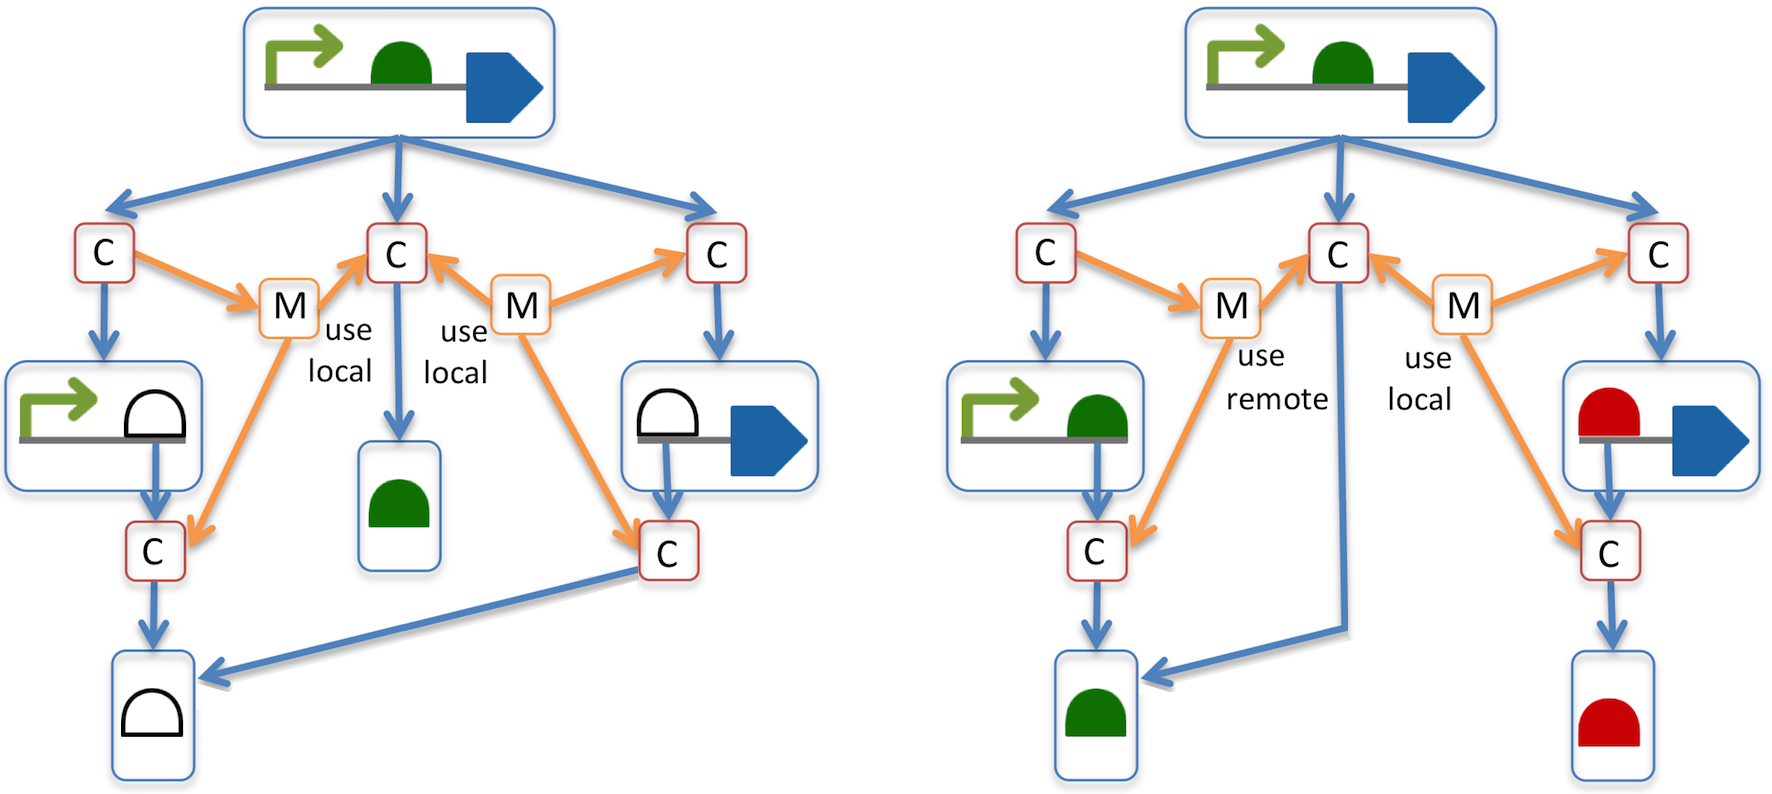
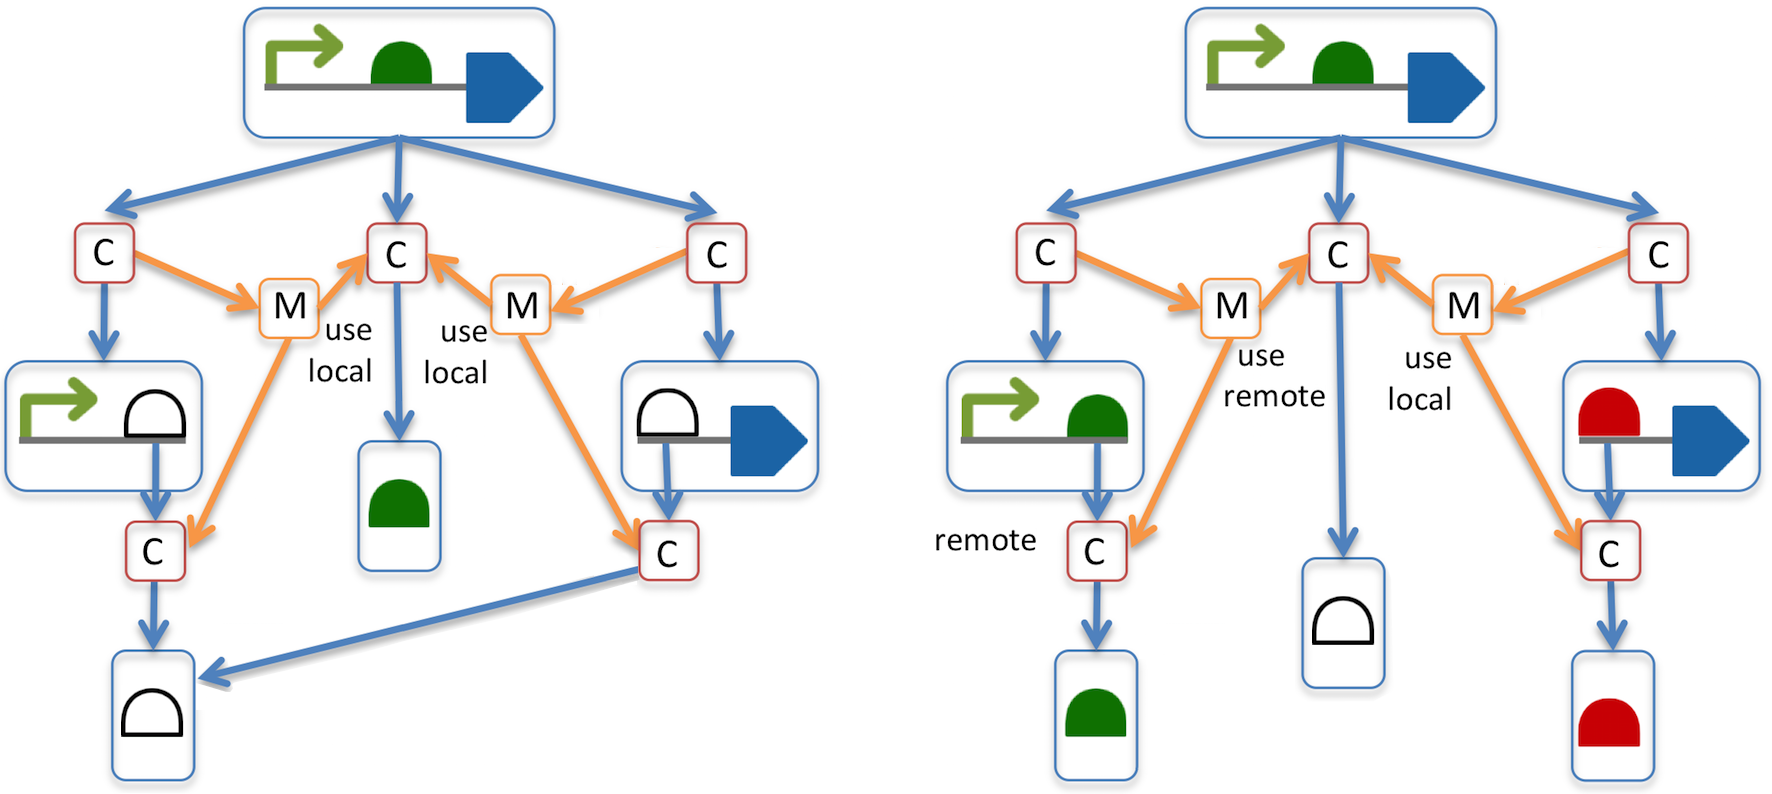
Update on Overleaf.

diff --git a/model.tex b/model.tex
@@ -509,13 +509,13 @@ In particular, a \sbol{MapsTo} object provides two pieces of information:
 \begin{itemize}
 \item An identity relationship between two \sbol{ComponentInstance} objects, the first contained by the ``lower level'' definition of the \sbol{ComponentInstance} or \sbol{Module} that owns the
   \sbol{MapsTo}, and the second contained by the ``higher level'' definition that contains this \sbol{ComponentInstance} or \sbol{Module}. The \sbol{remote} property of a \sbol{MapsTo} refers to the first ``lower level'' \sbol{ComponentInstance}, while the \sbol{local} property refers to the second ``higher level'' \sbol{ComponentInstance}.
-\item Instructions on what to do if the two \sbol{ComponentInstance} objects refer to different \sbol{ComponentDefinition} objects (that is, they are not identical). This is specified using the \sbol{refinement} property of the \sbol{MapsTo} class.
+\item Instructions on what to do if the \sbol{local} and \sbol{remote} \sbol{ComponentInstance} objects refer to different \sbol{ComponentDefinition} objects (that is, they are not identical). These are specified using the \sbol{refinement} property of the \sbol{MapsTo} class.
 \end{itemize}
 
 \begin{figure}[ht]
 \begin{center}
 \includegraphics[scale=1]{images/MapsTo_Diagram3}
-\caption{Linking \sbol{Component} objects using \sbol{MapsTo} entities. Boxes with diagrams represent \sbol{ComponentDefinition} objects, boxes with the C label represent \sbol{Component} objects, and boxes with the M label represent \sbol{MapsTo} objects. In both diagrams, a promoter-RBS \sbol{ComponentDefinition} and a RBS-CDS \sbol{ComponentDefinition} are being composed to form the \sbol{ComponentDefinition} of a complete transcriptional unit. In the lefthand diagram, the \sbol{Component} objects inside the promoter-RBS \sbol{ComponentDefinition} and RBS-CDS \sbol{ComponentDefinition} both refer to an abstract RBS \sbol{ComponentDefinition}  that lacks a sequence (white semicircle). Through the use of \sbol{MapsTo} objects with useLocal \sbol{refinement} properties, these \sbol{ComponentDefinition} objects are effectively overridden by that of the green RBS in the \sbol{ComponentDefinition} of the complete transcriptional unit. In the righthand diagram, however, the two ``lower level'' RBS \sbol{ComponentDefinition} objects are different and do not lack sequences. In this case, one of the \sbol{MapsTo} objects has a useRemote \sbol{refinement}, resulting in the green RBS \sbol{ComponentDefinition} overriding that of the red RBS in the ``higher level'' \sbol{ComponentDefinition}.}
+\caption{Linking \sbol{Component} objects using \sbol{MapsTo} entities. Boxes with diagrams represent \sbol{ComponentDefinition} objects, boxes with the C label represent \sbol{Component} objects, and boxes with the M label represent \sbol{MapsTo} objects. In both diagrams, a promoter-RBS \sbol{ComponentDefinition} and a RBS-CDS \sbol{ComponentDefinition} are being composed to form the \sbol{ComponentDefinition} of a complete transcriptional unit. In the lefthand diagram, the \sbol{Component} objects inside the promoter-RBS \sbol{ComponentDefinition} and RBS-CDS \sbol{ComponentDefinition} both refer to an abstract RBS \sbol{ComponentDefinition}  that lacks a sequence (white semicircle). Through the use of \sbol{MapsTo} objects with useLocal \sbol{refinement} properties, these ``lower level'' \sbol{ComponentDefinition} objects are effectively overridden by that of the green RBS in the \sbol{ComponentDefinition} of the complete transcriptional unit. In the righthand diagram, however, the two ``lower level'' RBS \sbol{ComponentDefinition} objects do not lack sequences and it is the ``higher level'' RBS \sbol{ComponentDefinition} that is abstract. In this case, one of the \sbol{MapsTo} objects has a useRemote \sbol{refinement}, resulting in the green RBS \sbol{ComponentDefinition} overriding that of the red RBS in the ``higher level'' \sbol{ComponentDefinition}.}
 \label{image:maps_to_diagram2}
 \end{center}
 \end{figure}
@@ -523,9 +523,9 @@ In particular, a \sbol{MapsTo} object provides two pieces of information:
 To illustrate this concept, two examples are provided in \ref{image:maps_to_diagram2}, in which the \sbol{ComponentDefinition} of a transcriptional unit is specified by composing two ``lower level'' \sbol{ComponentDefinition} objects.
 In both examples, the two ``lower level'' \sbol{ComponentDefinition} objects each contain a RBS \sbol{Component} that is intended to represent the same design entity in the ``higher level'' \sbol{ComponentDefinition} of the transcriptional unit.
 
-In order to explicitly represent these identity relationships, a new \sbol{Component} must be created inside the ``higher level'' \sbol{ComponentDefinition} to represent the shared RBS.  
-This \sbol{Component} must then be linked to the equivalent \sbol{Component} objects in each of the ``lower level'' \sbol{ComponentDefinition} objects by means of the \sbol{MapsTo} class, using one \sbol{MapsTo} object per link.  
-For example, in order to link the ``higher level'' RBS \sbol{Component} in the transcriptional unit \sbol{ComponentDefinition} to the ``lower level'' RBS \sbol{Component} in the promoter-RBS \sbol{ComponentDefinition}, a \sbol{MapsTo} must be created on the ``higher level'' promoter-RBS \sbol{Component}. The \sbol{local} property of this \sbol{MapsTo} must then refer to the ``higher level'' RBS \sbol{Component}, while its \sbol{remote} property must refer to the ``lower level'' RBS \sbol{Component}.
+In order to explicitly represent these identity relationships, a new RBS \sbol{Component} must be created inside the ``higher level'' \sbol{ComponentDefinition}.  
+This ``higher level'' \sbol{Component} must then be linked to the equivalent ``lower level'' \sbol{Component} objects by means of the \sbol{MapsTo} class, using one \sbol{MapsTo} object per link.  
+For example, in order to link the ``higher level'' RBS \sbol{Component} of the transcriptional unit \sbol{ComponentDefinition} to the ``lower level'' RBS \sbol{Component} of the promoter-RBS \sbol{ComponentDefinition}, a \sbol{MapsTo} must be created on the ``higher level'' promoter-RBS \sbol{Component}. The \sbol{local} property of this \sbol{MapsTo} must then refer to the ``higher level'' RBS \sbol{Component}, while its \sbol{remote} property must refer to the ``lower level'' RBS \sbol{Component}.
 In this way, many ``lower level'' \sbol{Component} objects can be linked together at the ``higher level'' using as an equal number of \sbol{MapsTo} objects, each one referring to a different \sbol{remote} \sbol{Component}, but all referring to the same \sbol{local} \sbol{Component}.
 
 The same types of identity relationships can also be declared between \sbol{FunctionalComponent} objects contained by \sbol{ModuleDefinition} objects, or between \sbol{Component} objects contained by \sbol{ComponentDefinition} objects and \sbol{FunctionalComponent} objects contained by \sbol{ModuleDefinition} objects. See \ref{sec:examples} for additional examples using the \sbol{MapsTo} class.
